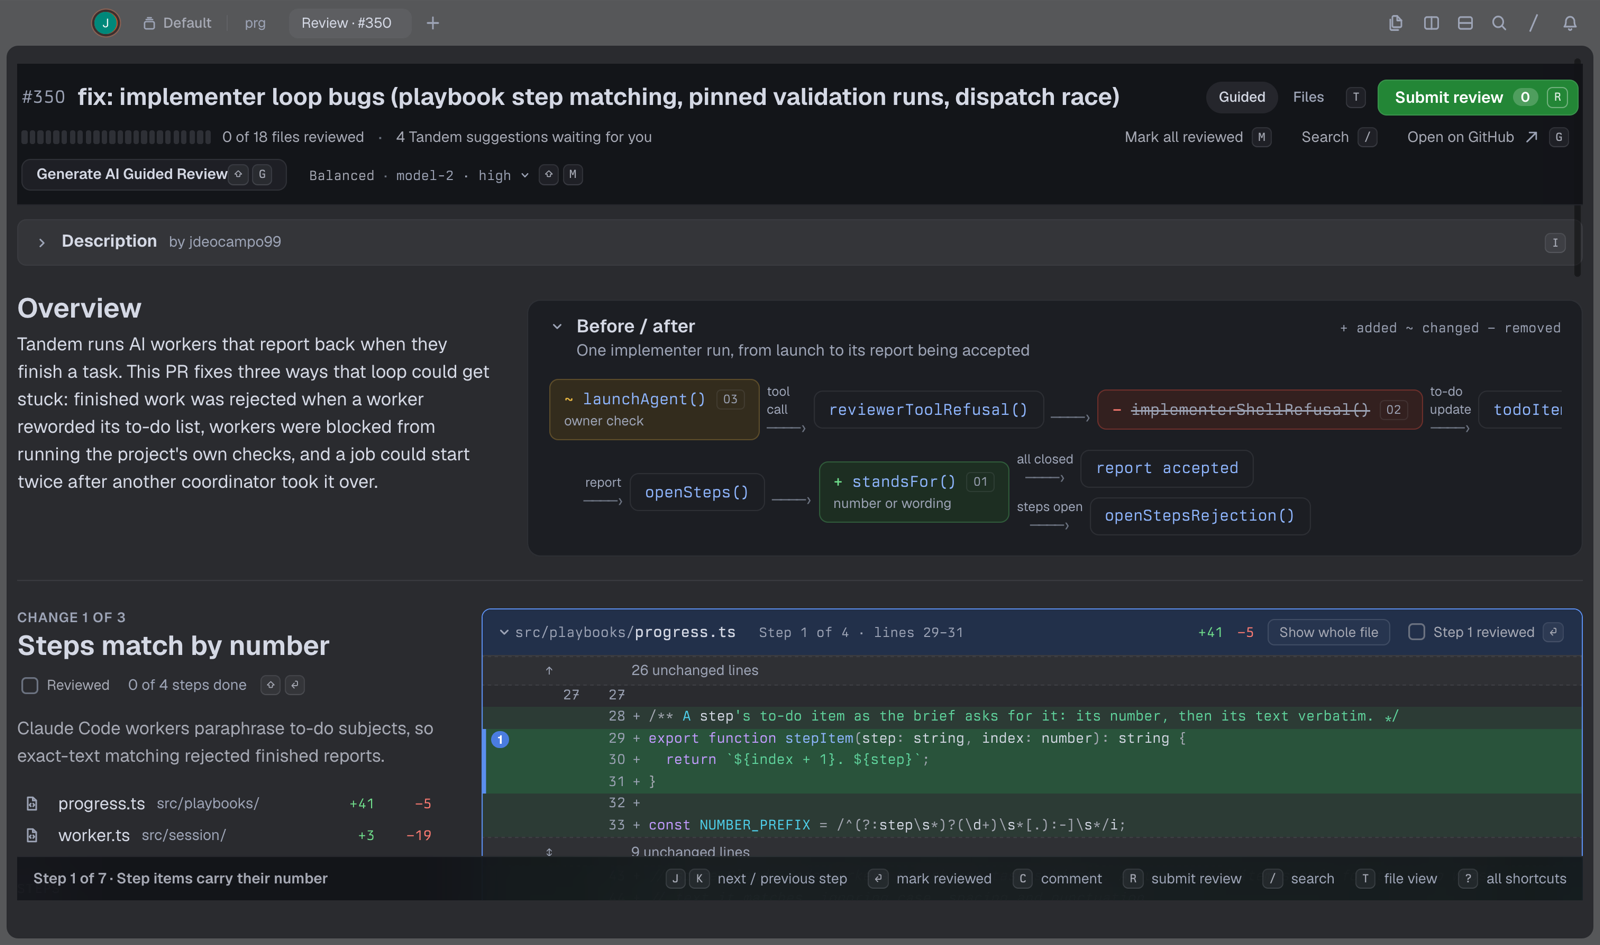
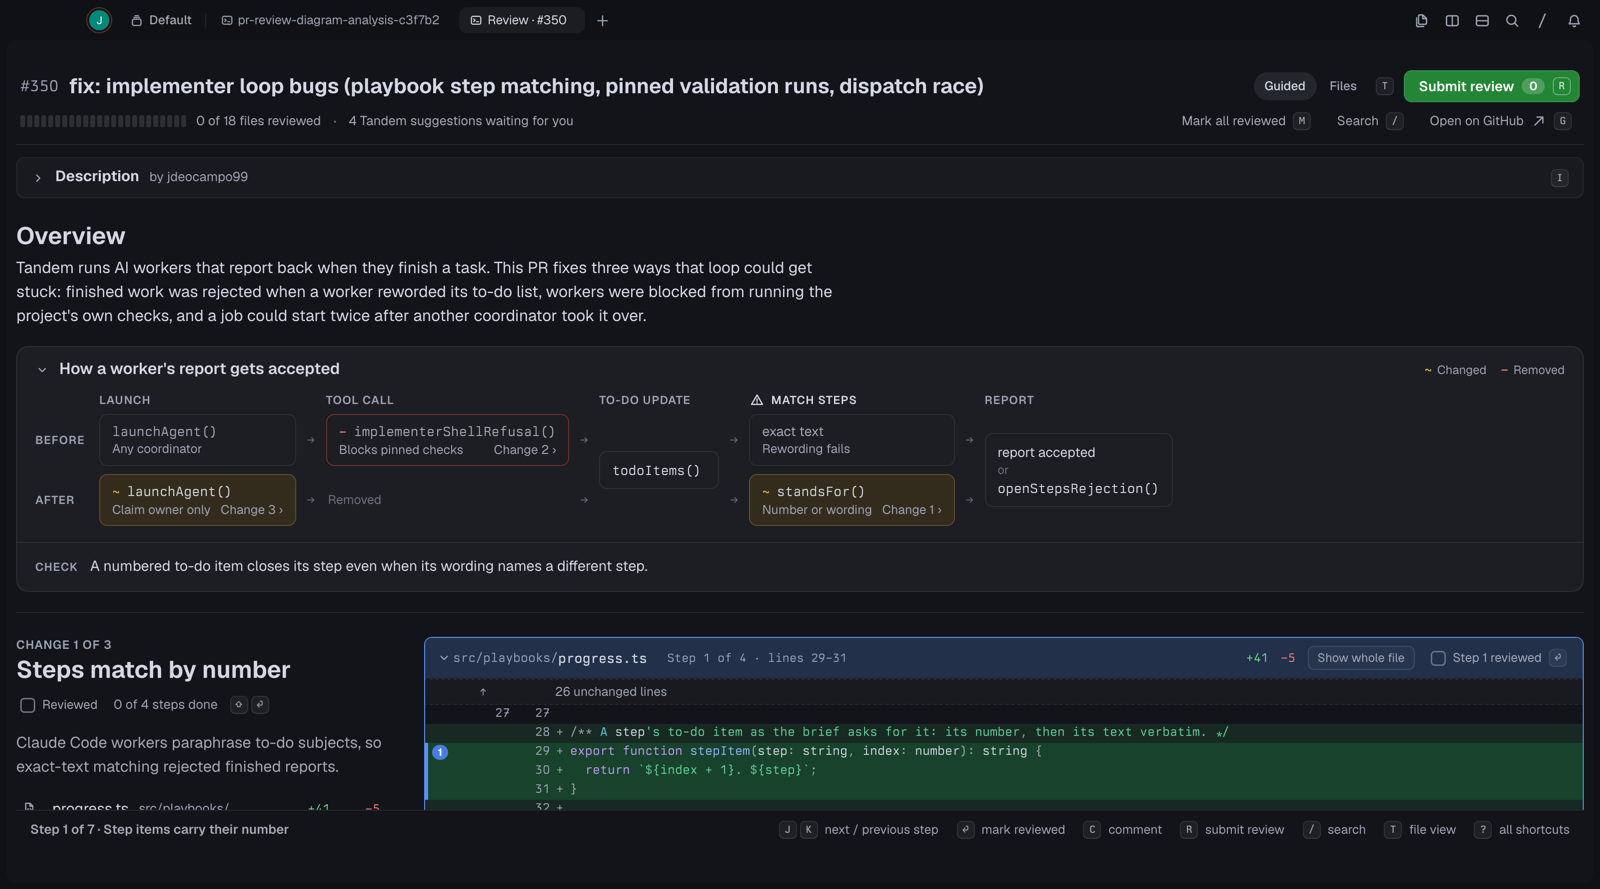
README: The overview screenshot and description show the new before/after diagram

diff --git a/README.md b/README.md
@@ -131,7 +131,9 @@ come last, under their own folding rows.
 **Guided** is an AI walkthrough inspired by Linear Diffs. You see the overall shape of the change
 first, then go through it in small steps:
 
-- A plain-language overview and, for some PRs, a before-and-after diagram.
+- A plain-language overview and, for some PRs, a before-and-after diagram: one run through the
+  code, with what each stage did before the PR above what it does now, the changed parts linked to
+  their changes, and a "Check" line naming the consequence to confirm.
 - The PR split into a few changes, and each change into steps pinned to their lines.
 - Code blocks that start at the enclosing function, method or class, so a step reads in context. When
   that line is far above the change, the block keeps a few lines of context and the hidden lines
